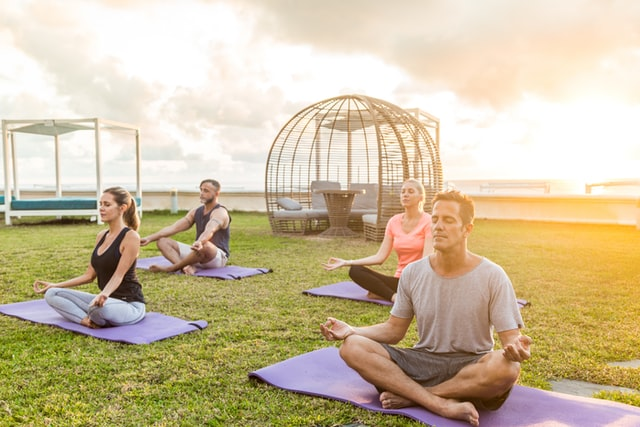
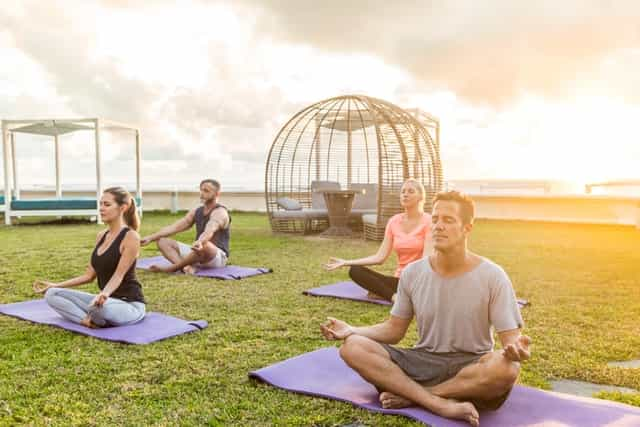
optimize images

diff --git a/index.html b/index.html
@@ -130,7 +130,7 @@
                                     <h3 class="text-white mb-0">Karan C.</h3>
                                     <p>Strategy Director</p>
                                     <p class="text-secondary-white-color mb-0">I found the class and ambience very
-                                        soothing to meditation. Helped me get over my sinus problems.</p>
+                                        soothing to meditation. Helped me focus on my work and family.</p>
                                 </div>
                             </div>
                             <div class="carousel-item">
